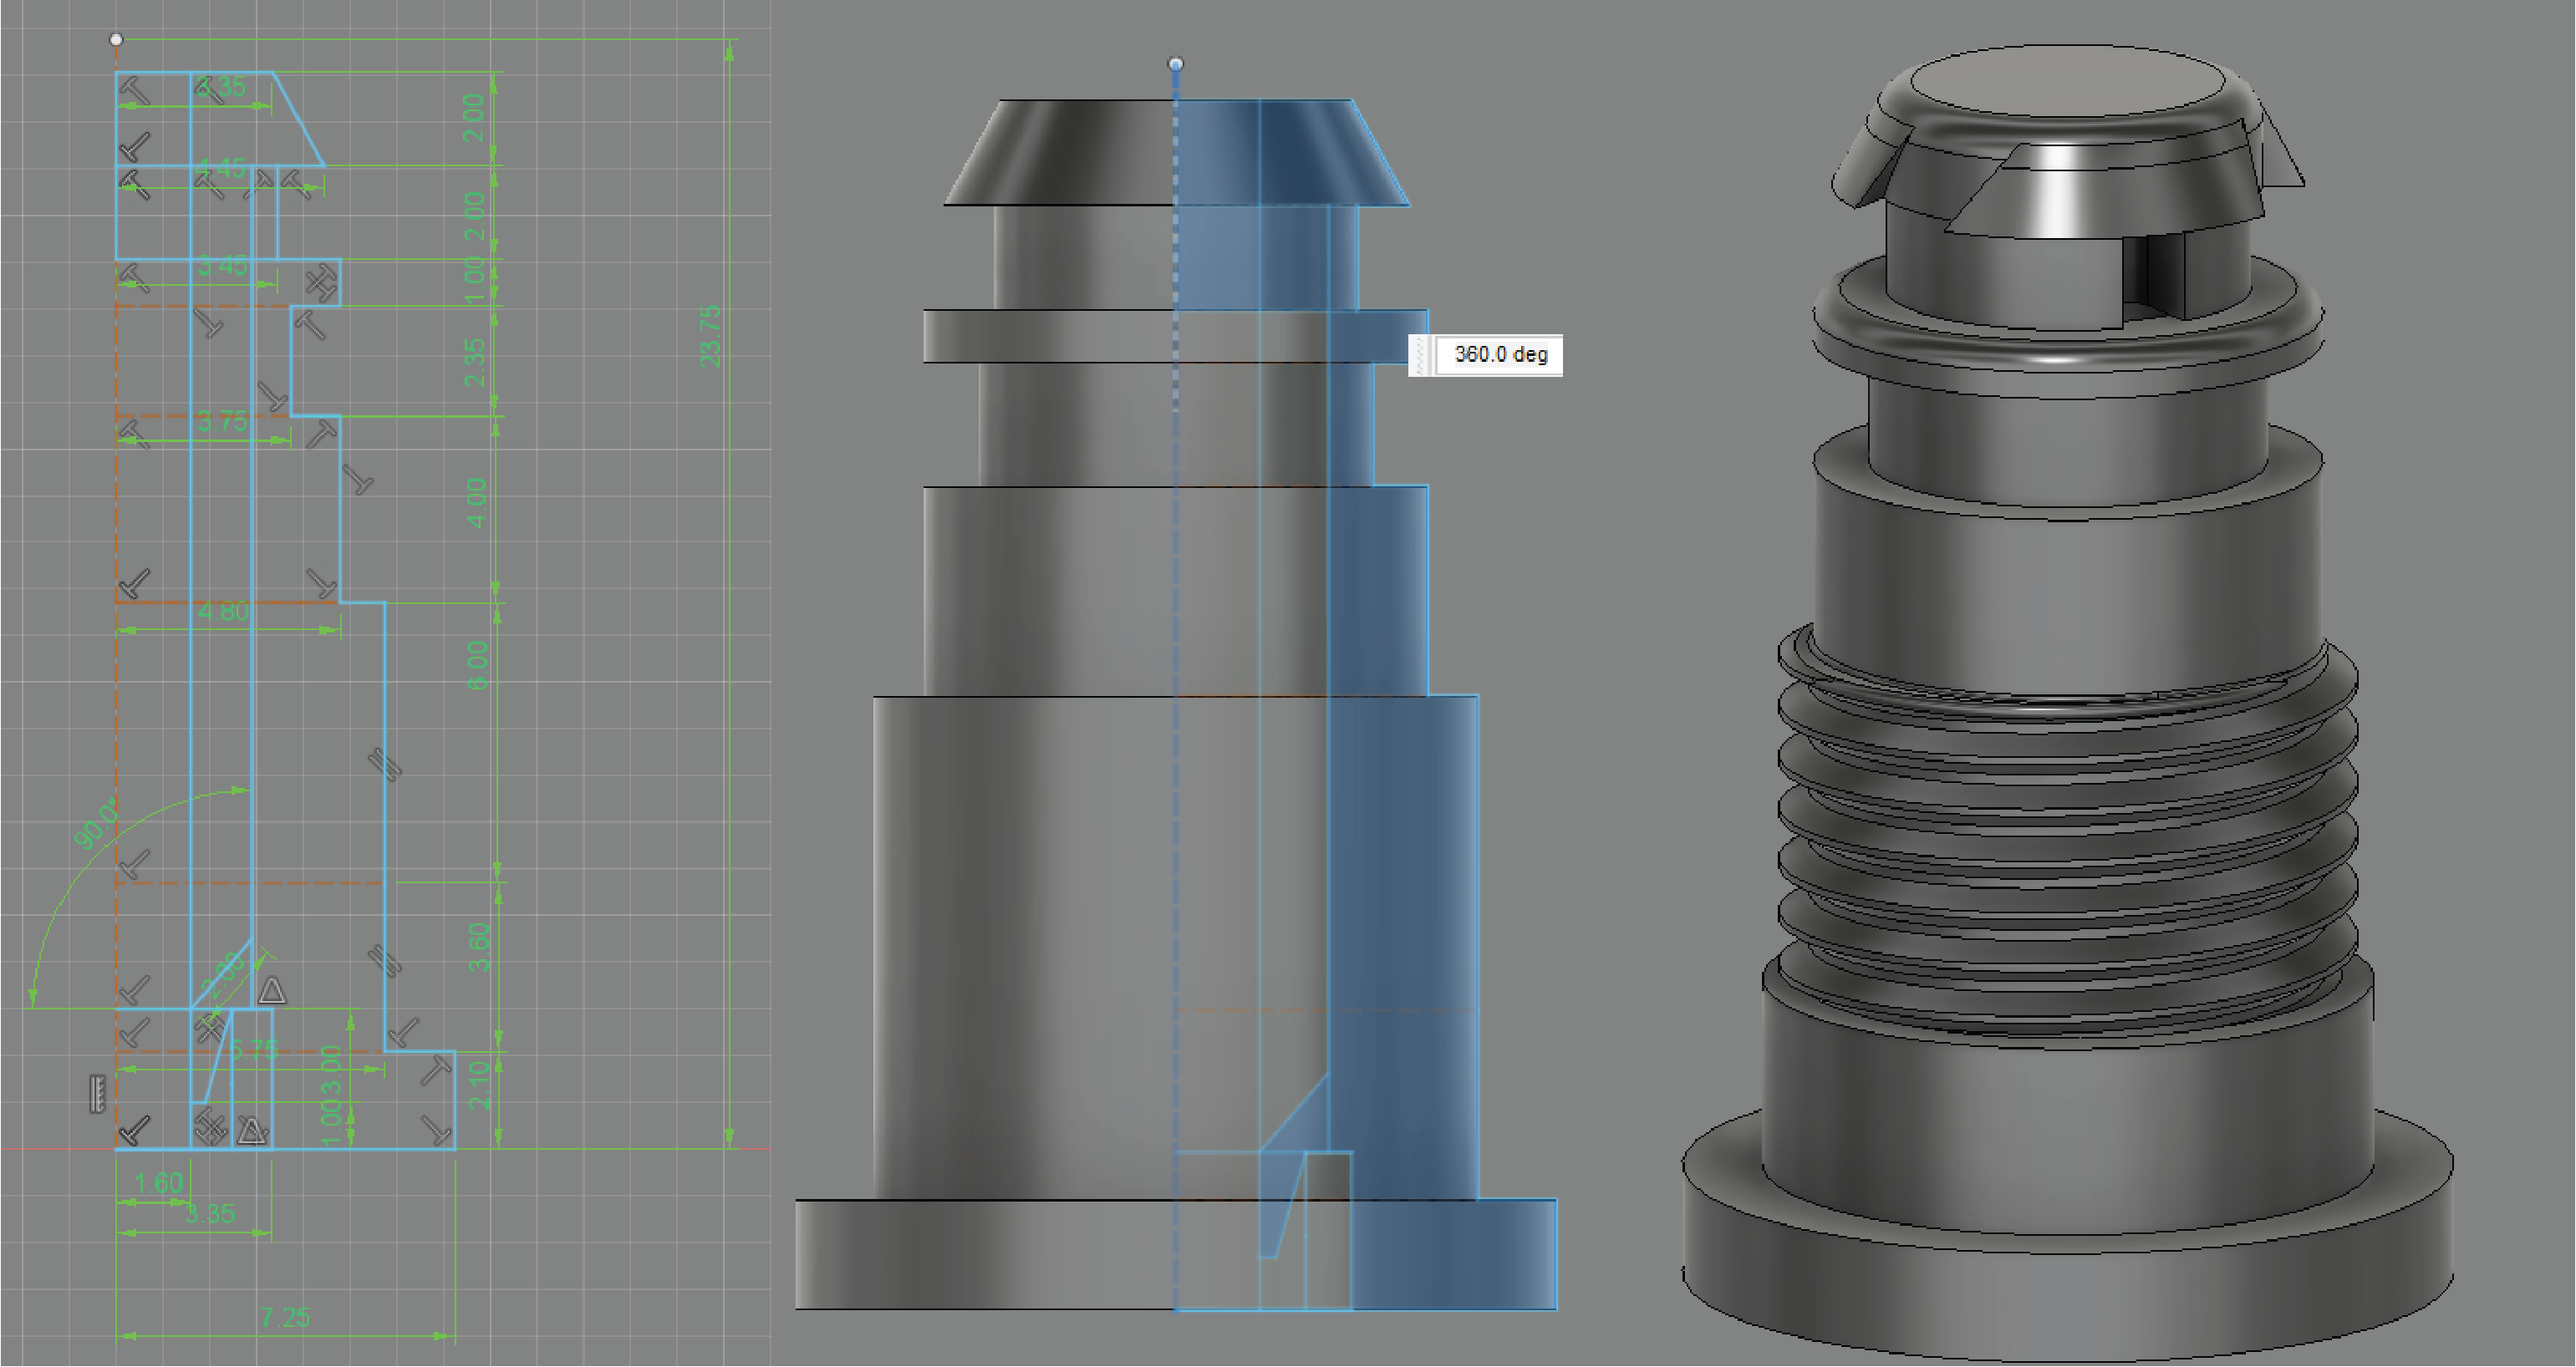
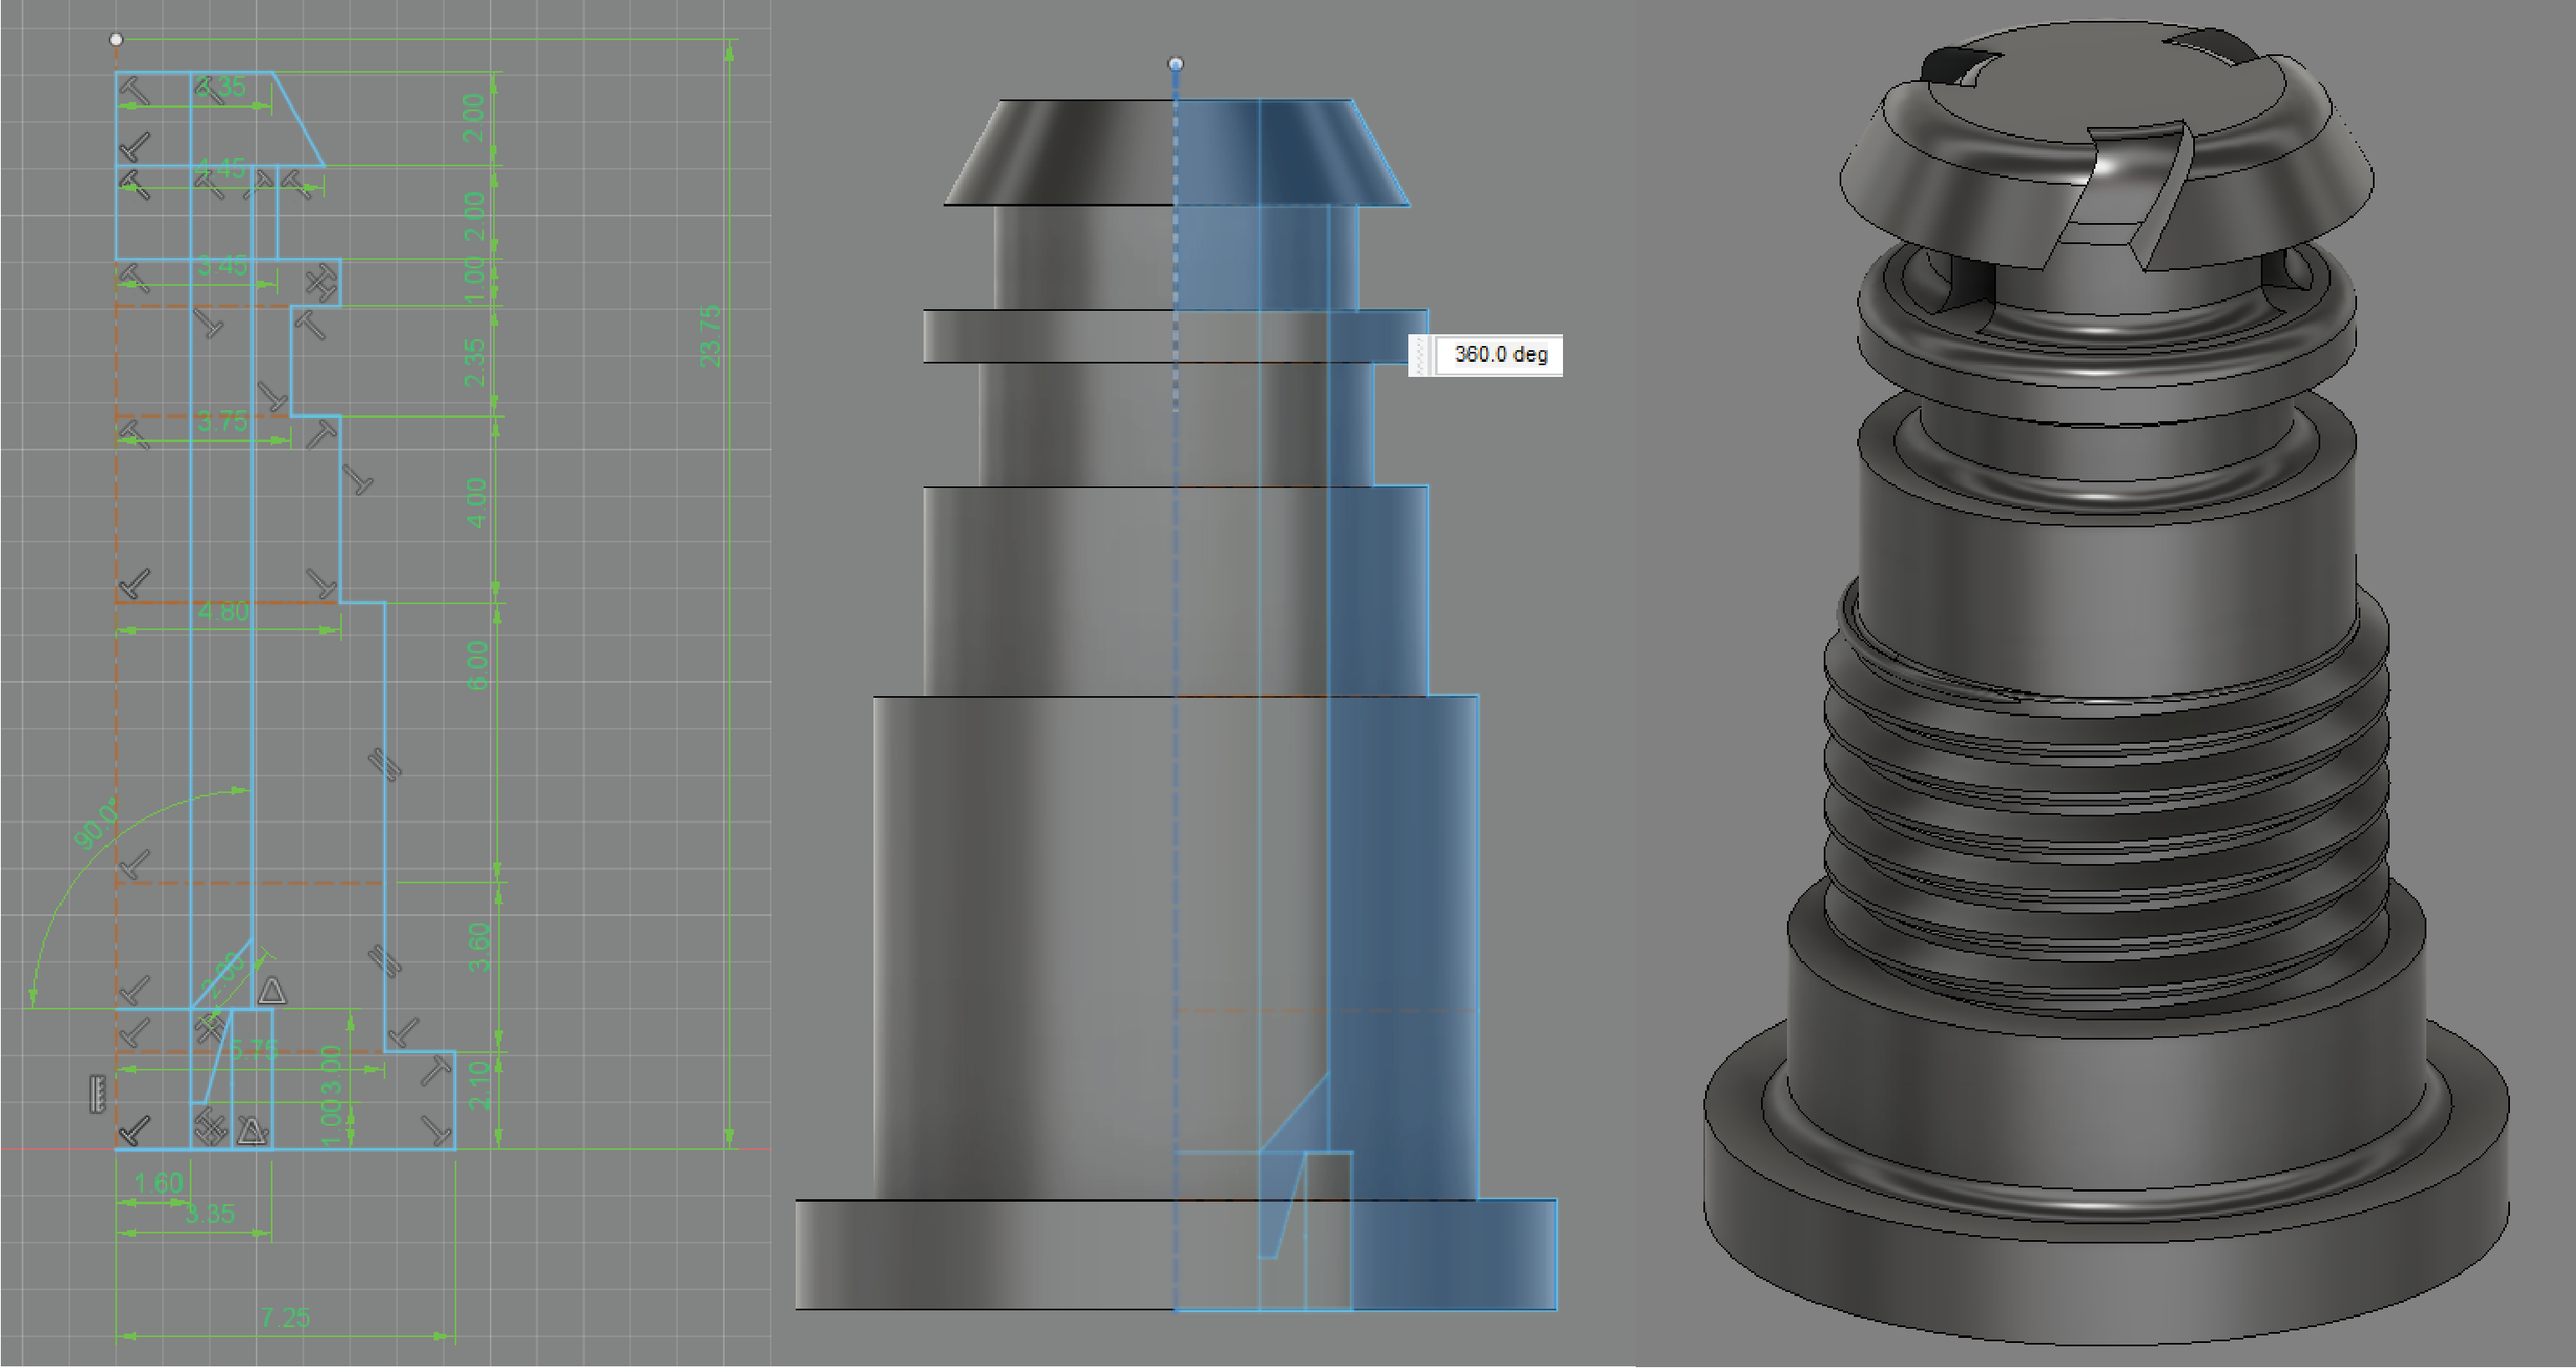
casi final

Changed region(s): [[0.6541, 0.0, 0.9968, 0.9976], [0.0, 0.9976, 0.623, 1.0]]

diff --git a/docs/tecnicos/mt02.md b/docs/tecnicos/mt02.md
@@ -13,9 +13,11 @@ El primer paso es de análisis; el sistema está compuesto fundamentalmente por 
 
 Por eso el primer paso es de identificar el pase y tipo de rosca que este codo posee, para que el sistema que generemos pueda unificarse al insumo original del producto.
 
+Utilizaremos los softwares Fusion 360, Illustrator y Photoshop para la actual tarea MT02.
+
 ![](../images/MT02/Untitled-1.jpg)
 
-Una vez identificada la rosca, generamos una prueba en Fusion 360 que luego haremos una impresión para verificar su funcionamiento.
+Una vez identificada la rosca, generamos una prueba que luego haremos una impresión para verificar su funcionamiento.
 
 ![](../images/MT02/Untitled-2.jpg)
 
@@ -49,8 +51,48 @@ Obtenemos el resultado deseado.
 
 A continuación demostraré de manera más breve el proceso de diseño de los demás componentes haciendo mención a las principales funciones utilizadas para llegar a los resultados finales.
 
+Filtro:
+
+![](../images/MT02/Untitled-6.png)
+
+Utilizamos las herramientas: "Sketch", "Revolve", "Shell", "Press pull", "Fillet", "Extrude", "Combine", "Circular Pattern"
+
+Canal central de aspersión:
+
 ![](../images/MT02/Untitled-5.png)
 
-Utilizamos las herramientas: "Sketch", "Revolve", "Thread", "Split Body", "Extrude", "Press Pull" y "Fillet".
+Utilizamos las herramientas: "Sketch", "Revolve", "Thread", "Split Body", "Combine", "Circular Pattern", "Extrude", "Press Pull" y "Fillet".
 
+Tapa reguladora de aspersión:
 
+![](../images/MT02/Untitled-7.png)
+
+Utilizamos las herramientas: "Sketch", "Revolve", "Thread", "Split Body", "Combine", "Circular Pattern", "Extrude", "Press Pull" y "Fillet".
+
+Resultado final:
+
+Luego de finalizar todos los diseños, agregamos diferentes patrones y colores a la "Apperiance" de los cuerpos diseñados. También utilizo la herramienta "Align" y "Section View" para poder alinear los componentes y asegurarnos de que las medidas, proporciones y encastres se correspondan y alinean correctamente.
+
+![](../images/MT02/Untitled-8.png)
+
+En el apartado "Animation" podemos generar diferentes disposiciones y configuraciones del diseño para luego utilizar tanto en renderizaciones como en dibujos técnicos.
+
+![](../images/MT02/Captura de pantalla 2024-05-08 175824.png)
+
+A partir de estos cuerpos y diferentes disposiciones generadas nos dirigimos al apartado "Render" para configurar y renderizar diferentes representaciones visuales del producto final.
+
+![](../images/MT02/Captura de pantalla 2024-05-07 201845.png)
+
+Luego en el apartado "Drawing" importamos vistas de el "Design" y el "Animation" para llegar a algunas representaciones técnicas talés como una "Explotada Axonométrica", "Sistema Diédrico Ortogonal" y "Vistas de sección".
+
+![](../images/MT02/Captura de pantalla 2024-05-07 203113.png)
+
+A partir de todos estos insumos generados previamente, nos dirigimos al software Illustrator para diseñar una lámina de presentación de producto moderadamente sencilla.
+
+![](../images/MT02/Captura de pantalla 2024-05-07 203427.png)
+
+Por último exportamos todos los cuerpos diseñados en Fusion 360 en formato STL, el formato más utilizado para Impresión 3D en dónde los cuerpos se exportan como mallas.
+
+![](../images/MT02/Untitled-9.png)
+
+¡Muchas gracias!
